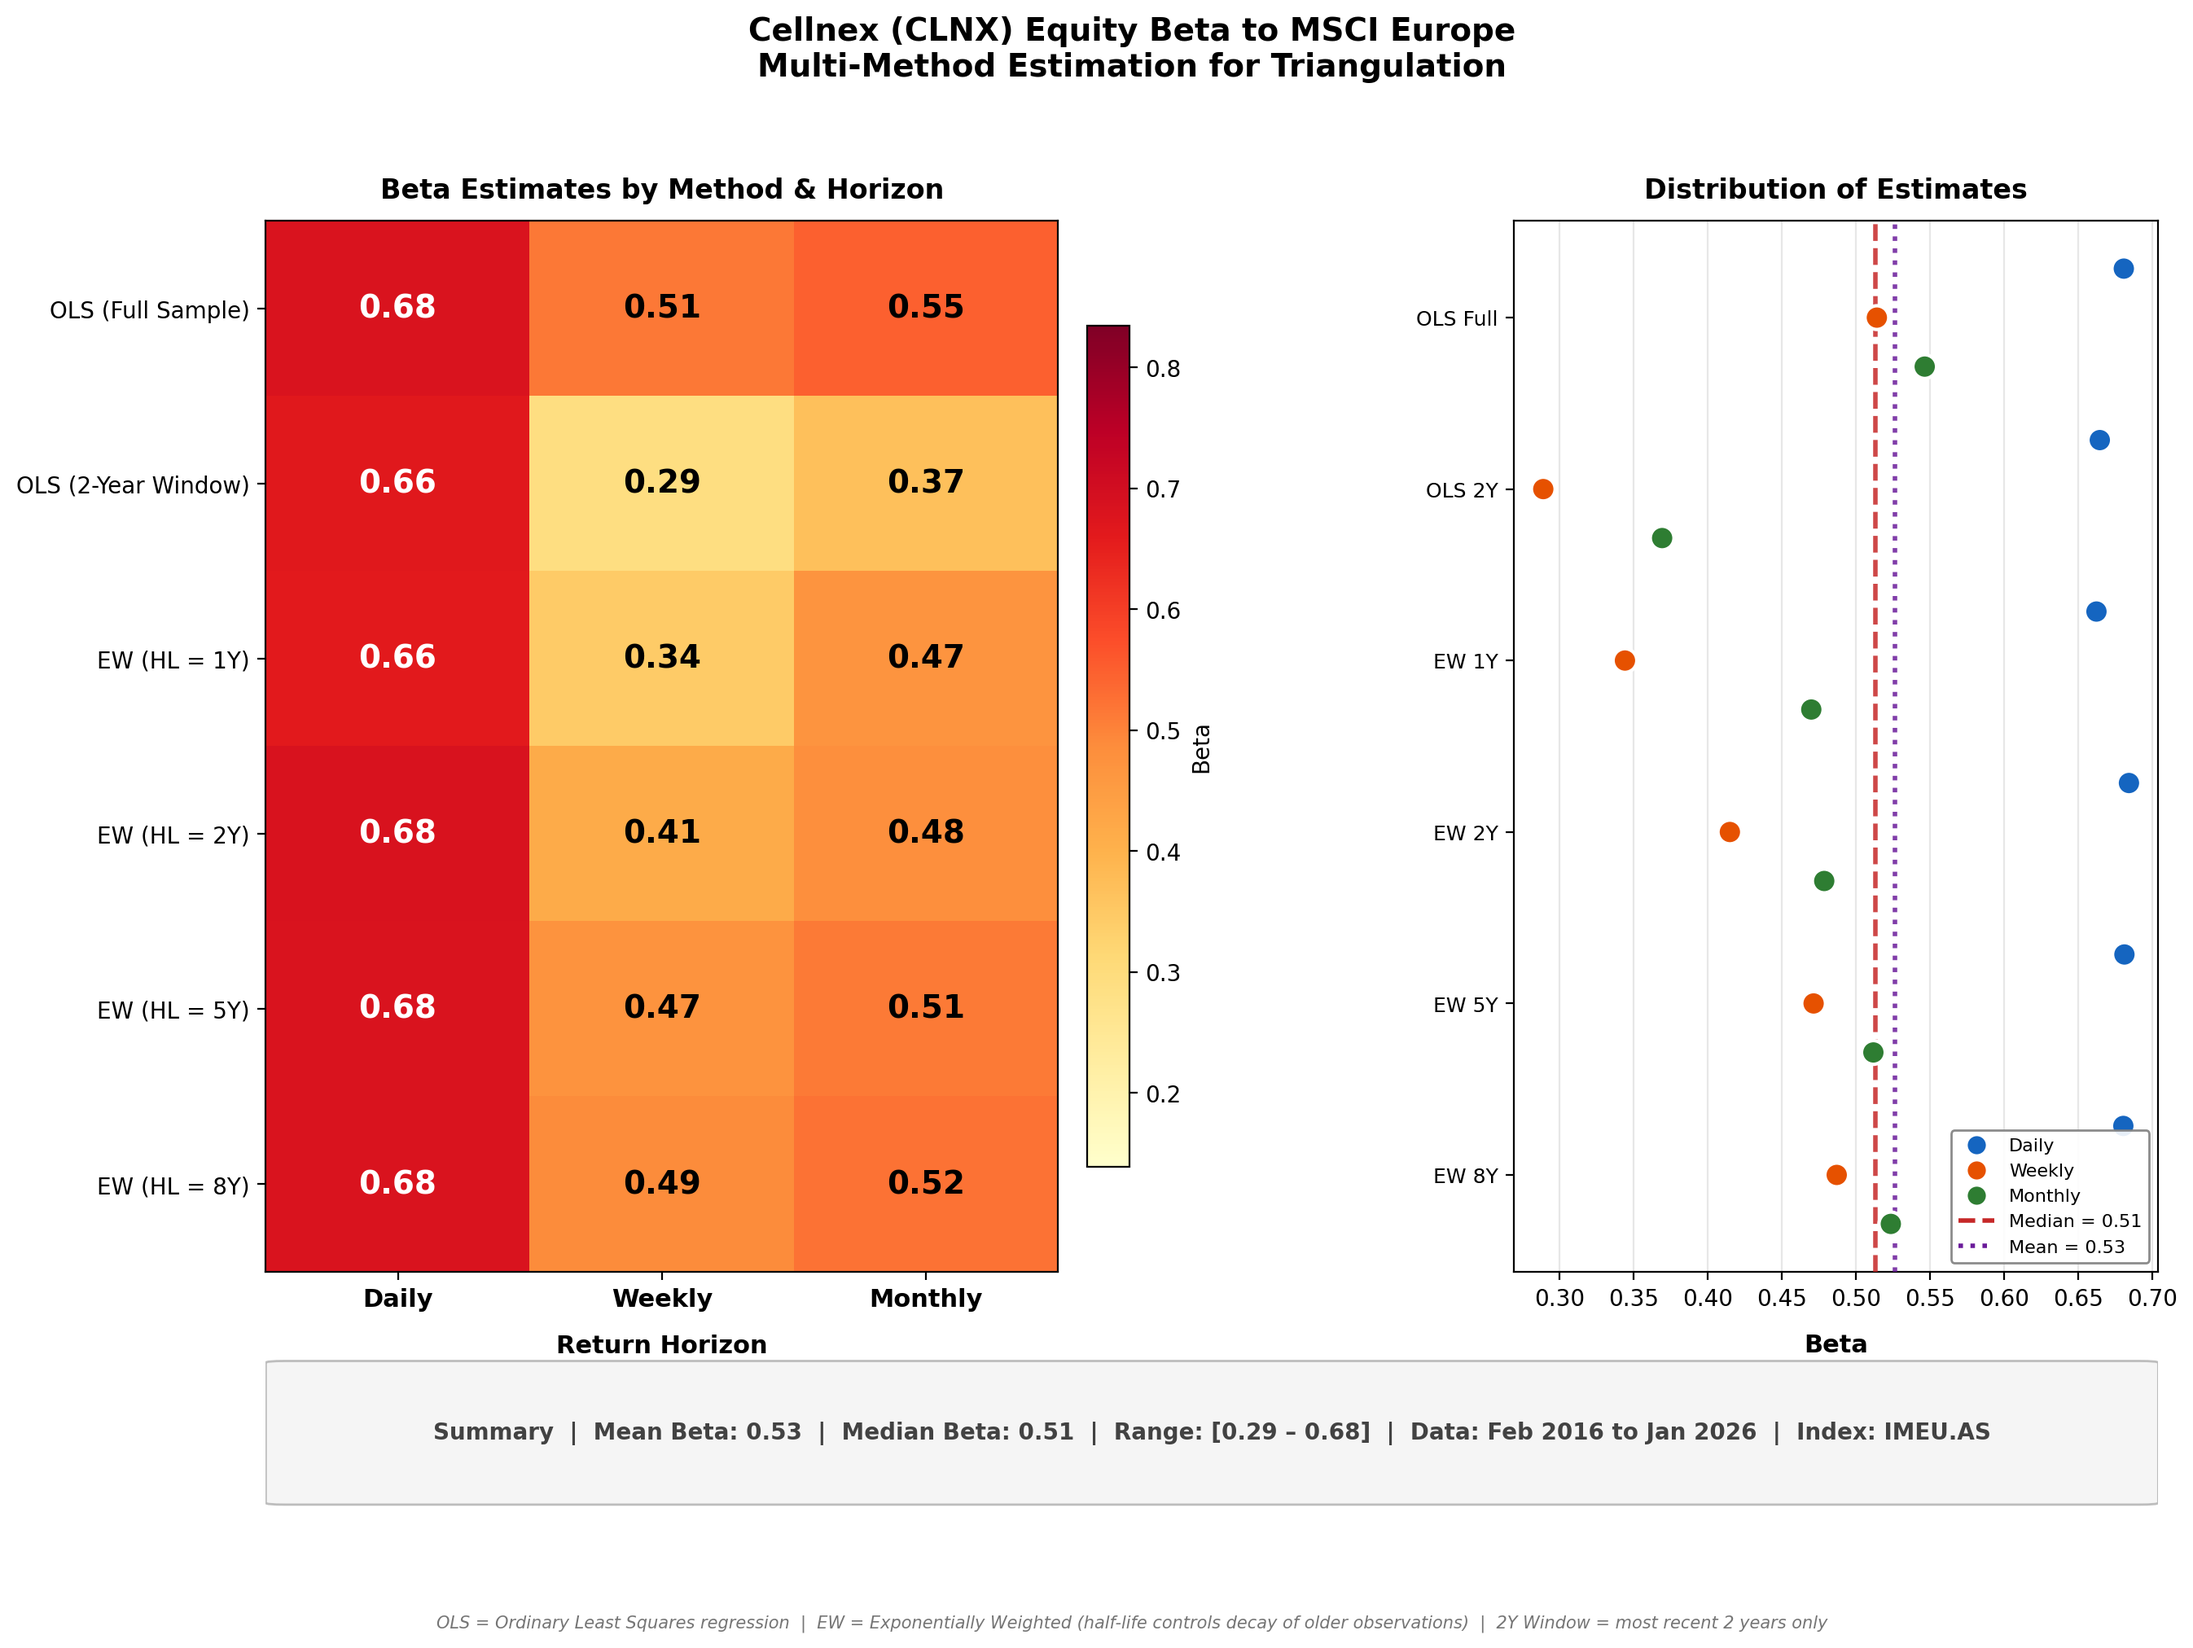
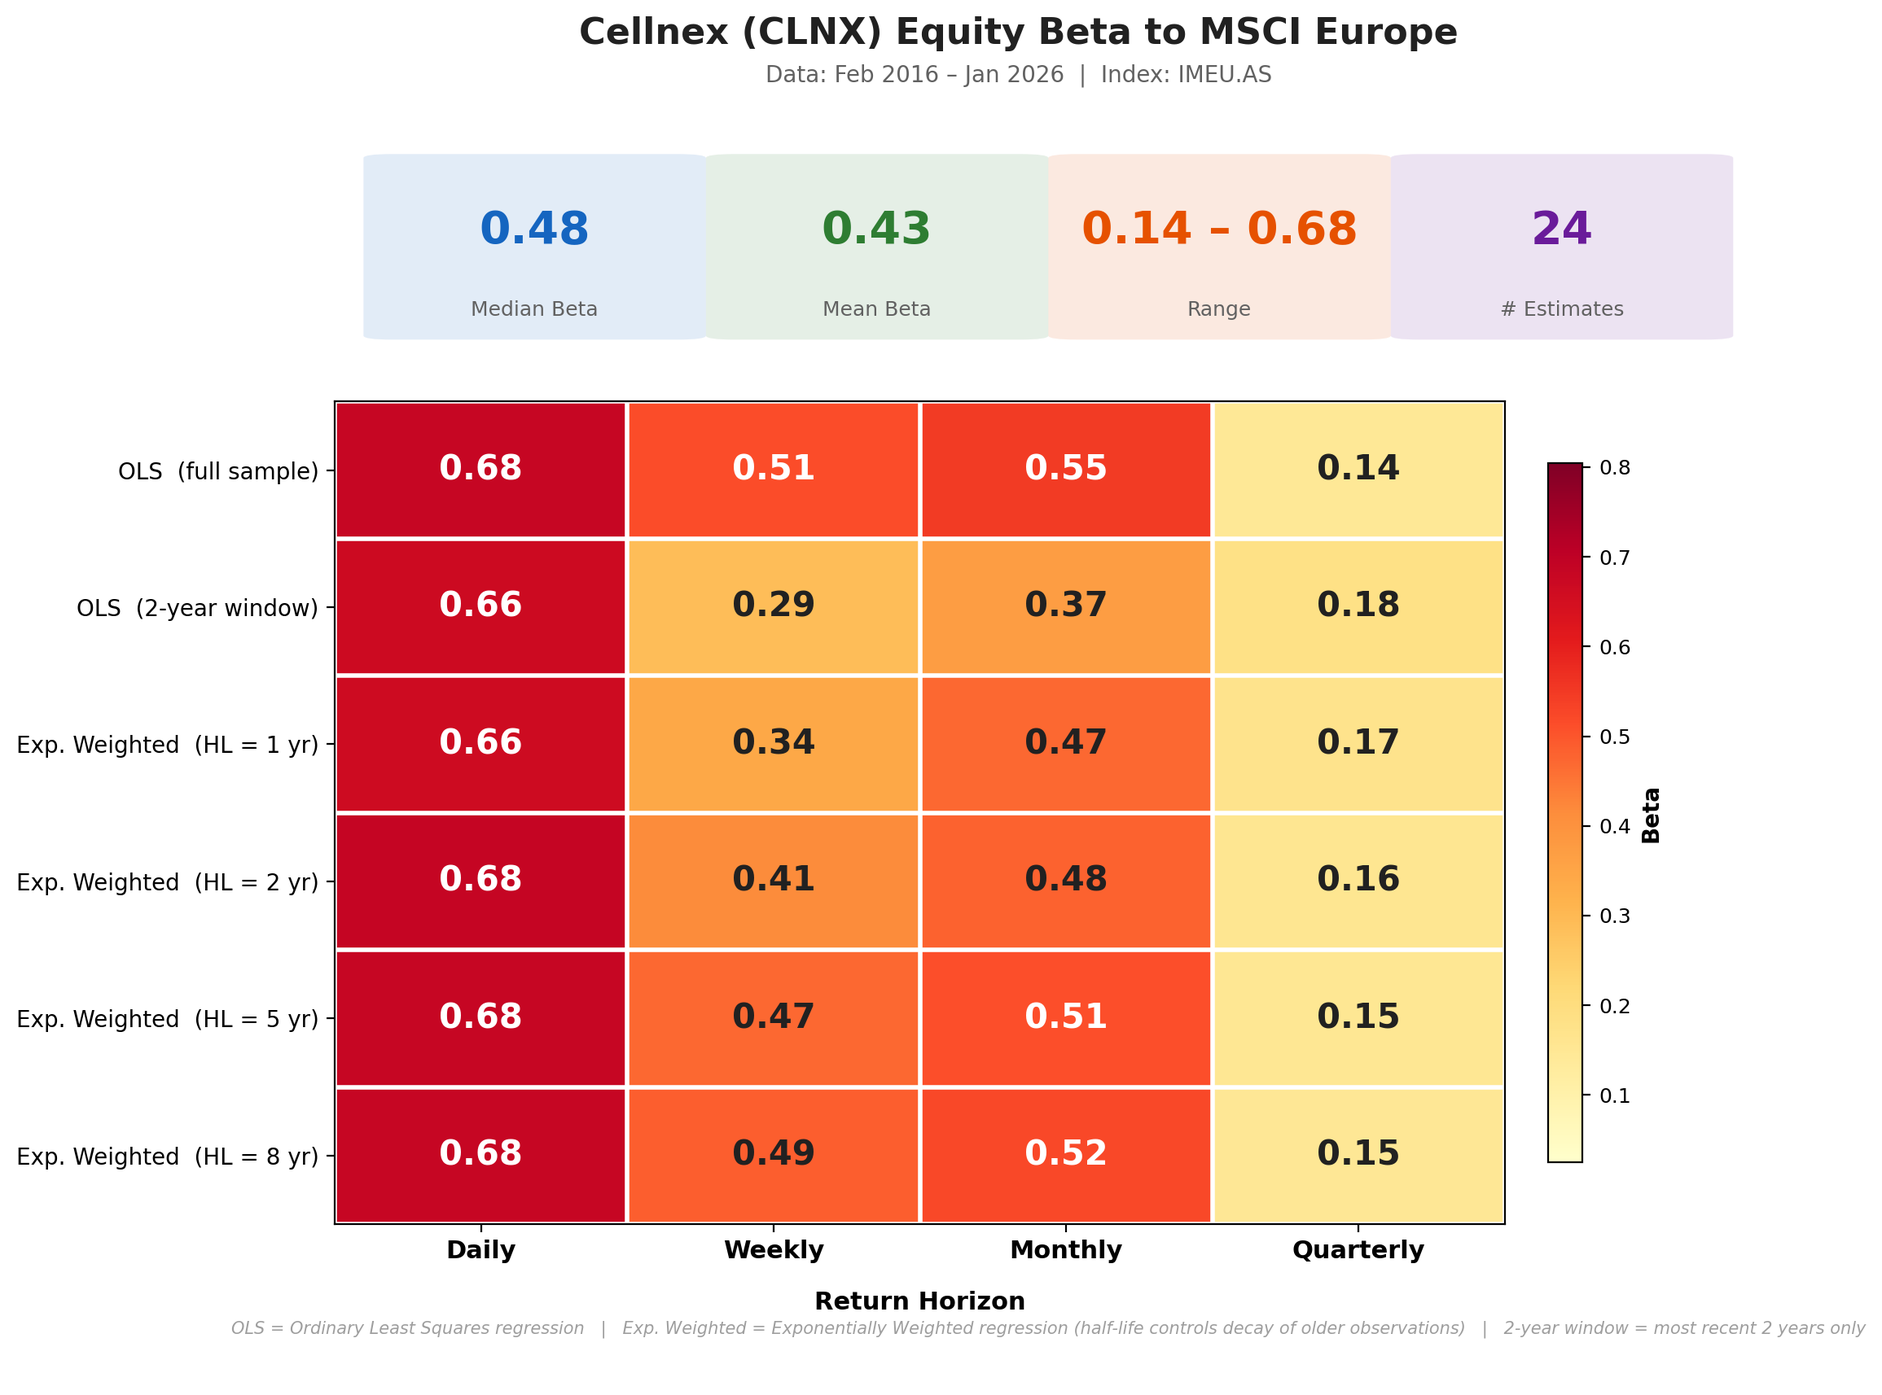
Add quarterly return horizon and redesign chart for senior management
- Added quarterly (63 trading days) as a 4th return horizon
- Updated 2-year OLS window (8 quarters) and EW half-life conversions
- Redesigned chart: single clean layout with key-stat callout boxes
  at top (median, mean, range, # estimates), annotated heatmap below,
  and methodology footnote
- All data sourced live from Yahoo Finance (CLNX.MC, IMEU.AS)

https://claude.ai/code/session_01LGr1KkWTNytDRxPtfdhonU

diff --git a/cellnex_equity_beta/cellnex_beta.py b/cellnex_equity_beta/cellnex_beta.py
@@ -53,6 +53,7 @@ RETURN_HORIZONS = {
     "Daily": 1,
     "Weekly": 5,
     "Monthly": 21,
+    "Quarterly": 63,
 }
 
 # Half-lives for exponential weighting (in years)
@@ -304,8 +305,10 @@ def estimate_all_betas(cellnex_prices, msci_prices):
             window = 504   # ~2 years of trading days
         elif horizon_days == 5:
             window = 104   # ~2 years of weeks
-        else:
+        elif horizon_days == 21:
             window = 24    # ~2 years of months
+        else:
+            window = 8     # ~2 years of quarters
         beta = ols_beta_window(stock_ret, index_ret, window)
         results[("OLS (2-Year Window)", horizon_name)] = beta
 
@@ -315,8 +318,10 @@ def estimate_all_betas(cellnex_prices, msci_prices):
                 hl_periods = hl_years * 252
             elif horizon_days == 5:
                 hl_periods = hl_years * 52
-            else:
+            elif horizon_days == 21:
                 hl_periods = hl_years * 12
+            else:
+                hl_periods = hl_years * 4
 
             beta = ew_beta(stock_ret, index_ret, hl_periods)
             results[(f"EW (HL = {hl_years}Y)", horizon_name)] = beta
@@ -330,7 +335,7 @@ def estimate_all_betas(cellnex_prices, msci_prices):
 
 def create_chart(results, msci_proxy_label, cellnex_prices, msci_prices,
                  is_sample_data=False):
-    """Create a single professional chart for senior management."""
+    """Create a single clean chart designed for senior management."""
 
     methodologies = [
         "OLS (Full Sample)",
@@ -354,29 +359,80 @@ def create_chart(results, msci_proxy_label, cellnex_prices, msci_prices,
     min_beta = np.min(all_betas)
     max_beta = np.max(all_betas)
 
+    data_start = max(cellnex_prices.index[0], msci_prices.index[0]).strftime("%b %Y")
+    data_end = min(cellnex_prices.index[-1], msci_prices.index[-1]).strftime("%b %Y")
+
     # =========================================================================
-    # Figure setup
+    # Figure: single clean layout
+    #   Row 0: key stats callout boxes  (height_ratio 1.2)
+    #   Row 1: annotated heatmap        (height_ratio 5)
+    #   Row 2: footer / methodology note (height_ratio 0.6)
     # =========================================================================
-    fig = plt.figure(figsize=(14, 10.5), facecolor="white")
+    fig = plt.figure(figsize=(12, 9), facecolor="white")
 
     gs = fig.add_gridspec(
-        2, 2,
-        width_ratios=[3, 2],
-        height_ratios=[6, 1],
-        hspace=0.12,
-        wspace=0.35,
-        left=0.12, right=0.95,
-        top=0.84, bottom=0.08,
+        3, 1,
+        height_ratios=[1.2, 5, 0.6],
+        hspace=0.15,
+        left=0.15, right=0.88,
+        top=0.88, bottom=0.04,
     )
-    ax_heat = fig.add_subplot(gs[0, 0])
-    ax_dots = fig.add_subplot(gs[0, 1])
-    ax_summary = fig.add_subplot(gs[1, :])
+    ax_stats = fig.add_subplot(gs[0])
+    ax_heat = fig.add_subplot(gs[1])
+    ax_footer = fig.add_subplot(gs[2])
 
     # =========================================================================
-    # Panel 1: Annotated Heatmap
+    # Title
     # =========================================================================
-    vmin = max(0, min_beta - 0.15)
-    vmax = max_beta + 0.15
+    title = "Cellnex (CLNX) Equity Beta to MSCI Europe"
+    subtitle = f"Data: {data_start} \u2013 {data_end}  |  Index: {msci_proxy_label}"
+    if is_sample_data:
+        subtitle += "  [Sample Data]"
+    fig.suptitle(title, fontsize=16, fontweight="bold", y=0.97, color="#212121")
+    fig.text(0.5, 0.925, subtitle, ha="center", fontsize=10, color="#616161")
+
+    # =========================================================================
+    # Panel 1: Key Statistics (callout boxes)
+    # =========================================================================
+    ax_stats.axis("off")
+
+    stat_items = [
+        ("Median Beta", f"{median_beta:.2f}", "#1565C0"),
+        ("Mean Beta", f"{mean_beta:.2f}", "#2E7D32"),
+        ("Range", f"{min_beta:.2f} \u2013 {max_beta:.2f}", "#E65100"),
+        ("# Estimates", f"{len(all_betas)}", "#6A1B9A"),
+    ]
+    n_stats = len(stat_items)
+    box_width = 0.20
+    gap = (1.0 - n_stats * box_width) / (n_stats + 1)
+
+    for idx, (label, value, color) in enumerate(stat_items):
+        x_left = gap + idx * (box_width + gap)
+        box = FancyBboxPatch(
+            (x_left, 0.05), box_width, 0.90,
+            boxstyle="round,pad=0.02",
+            facecolor=color, edgecolor="none", alpha=0.12,
+            transform=ax_stats.transAxes,
+        )
+        ax_stats.add_patch(box)
+        # Value (large)
+        ax_stats.text(
+            x_left + box_width / 2, 0.58, value,
+            transform=ax_stats.transAxes, ha="center", va="center",
+            fontsize=20, fontweight="bold", color=color,
+        )
+        # Label (small, below)
+        ax_stats.text(
+            x_left + box_width / 2, 0.18, label,
+            transform=ax_stats.transAxes, ha="center", va="center",
+            fontsize=9, color="#616161",
+        )
+
+    # =========================================================================
+    # Panel 2: Annotated Heatmap (main content)
+    # =========================================================================
+    vmin = max(0, min_beta - 0.12)
+    vmax = max_beta + 0.12
     cmap = plt.cm.YlOrRd
 
     im = ax_heat.imshow(matrix, cmap=cmap, aspect="auto", vmin=vmin, vmax=vmax)
@@ -389,141 +445,51 @@ def create_chart(results, msci_proxy_label, cellnex_prices, msci_prices,
             else:
                 text = f"{val:.2f}"
             norm_val = (val - vmin) / (vmax - vmin) if not np.isnan(val) else 0.5
-            text_color = "white" if norm_val > 0.65 else "black"
+            text_color = "white" if norm_val > 0.6 else "#212121"
             ax_heat.text(j, i, text, ha="center", va="center",
-                         fontsize=14, fontweight="bold", color=text_color)
+                         fontsize=15, fontweight="bold", color=text_color)
 
     ax_heat.set_xticks(range(len(horizons)))
     ax_heat.set_xticklabels(horizons, fontsize=11, fontweight="bold")
     ax_heat.set_yticks(range(len(methodologies)))
-    ax_heat.set_yticklabels(methodologies, fontsize=10)
-    ax_heat.set_xlabel("Return Horizon", fontsize=11, fontweight="bold", labelpad=10)
-    ax_heat.set_title("Beta Estimates by Method & Horizon", fontsize=12,
-                       fontweight="bold", pad=10)
-
-    cbar = fig.colorbar(im, ax=ax_heat, shrink=0.8, pad=0.03)
-    cbar.set_label("Beta", fontsize=10)
-
-    # =========================================================================
-    # Panel 2: Dot Plot (distribution of all estimates)
-    # =========================================================================
-    horizon_colors = {"Daily": "#1565C0", "Weekly": "#E65100", "Monthly": "#2E7D32"}
-    method_short = {
-        "OLS (Full Sample)": "OLS Full",
-        "OLS (2-Year Window)": "OLS 2Y",
-        "EW (HL = 1Y)": "EW 1Y",
-        "EW (HL = 2Y)": "EW 2Y",
-        "EW (HL = 5Y)": "EW 5Y",
-        "EW (HL = 8Y)": "EW 8Y",
-    }
-
-    y_positions = []
-    x_values = []
-    colors = []
-    y_counter = 0
-
-    for method in methodologies:
-        for horizon in horizons:
-            val = results.get((method, horizon), np.nan)
-            if not np.isnan(val):
-                y_positions.append(y_counter)
-                x_values.append(val)
-                colors.append(horizon_colors[horizon])
-            y_counter += 1
-        y_counter += 0.5
-
-    ax_dots.scatter(x_values, y_positions, c=colors, s=110, zorder=5,
-                    edgecolors="white", linewidths=1.5)
-
-    # Median & mean lines
-    ax_dots.axvline(median_beta, color="#C62828", linestyle="--", linewidth=2.0,
-                    alpha=0.85, zorder=3)
-    ax_dots.axvline(mean_beta, color="#6A1B9A", linestyle=":", linewidth=2.0,
-                    alpha=0.85, zorder=3)
-
-    # Y-axis labels
-    y_counter = 0
-    ytick_positions = []
-    ytick_labels = []
-    for method in methodologies:
-        mid = y_counter + 1
-        ytick_positions.append(mid)
-        ytick_labels.append(method_short[method])
-        y_counter += len(horizons) + 0.5
-
-    ax_dots.set_yticks(ytick_positions)
-    ax_dots.set_yticklabels(ytick_labels, fontsize=9)
-    ax_dots.invert_yaxis()
-    ax_dots.set_xlabel("Beta", fontsize=11, fontweight="bold", labelpad=10)
-    ax_dots.set_title("Distribution of Estimates", fontsize=12,
-                       fontweight="bold", pad=10)
-    ax_dots.grid(axis="x", alpha=0.3, linestyle="-")
-
-    # Legend
-    legend_elements = [
-        Line2D([0], [0], marker="o", color="w", markerfacecolor=horizon_colors[h],
-               markersize=9, label=h) for h in horizons
+    method_labels = [
+        "OLS  (full sample)",
+        "OLS  (2-year window)",
+        "Exp. Weighted  (HL = 1 yr)",
+        "Exp. Weighted  (HL = 2 yr)",
+        "Exp. Weighted  (HL = 5 yr)",
+        "Exp. Weighted  (HL = 8 yr)",
     ]
-    legend_elements.append(
-        Line2D([0], [0], color="#C62828", linestyle="--", linewidth=2,
-               label=f"Median = {median_beta:.2f}")
-    )
-    legend_elements.append(
-        Line2D([0], [0], color="#6A1B9A", linestyle=":", linewidth=2,
-               label=f"Mean = {mean_beta:.2f}")
-    )
-    ax_dots.legend(handles=legend_elements, loc="lower right", fontsize=8,
-                   framealpha=0.9, edgecolor="gray")
+    ax_heat.set_yticklabels(method_labels, fontsize=10)
+    ax_heat.set_xlabel("Return Horizon", fontsize=11, fontweight="bold", labelpad=12)
+
+    # Light grid between cells
+    for i in range(len(methodologies) + 1):
+        ax_heat.axhline(i - 0.5, color="white", linewidth=2)
+    for j in range(len(horizons) + 1):
+        ax_heat.axvline(j - 0.5, color="white", linewidth=2)
+
+    cbar = fig.colorbar(im, ax=ax_heat, shrink=0.85, pad=0.03)
+    cbar.set_label("Beta", fontsize=10, fontweight="bold")
+    cbar.ax.tick_params(labelsize=9)
 
     # =========================================================================
-    # Panel 3: Summary bar
+    # Panel 3: Methodology footer
     # =========================================================================
-    ax_summary.axis("off")
-    data_start = max(cellnex_prices.index[0], msci_prices.index[0]).strftime("%b %Y")
-    data_end = min(cellnex_prices.index[-1], msci_prices.index[-1]).strftime("%b %Y")
-
-    summary_text = (
-        f"Summary  |  "
-        f"Mean Beta: {mean_beta:.2f}  |  "
-        f"Median Beta: {median_beta:.2f}  |  "
-        f"Range: [{min_beta:.2f} \u2013 {max_beta:.2f}]  |  "
-        f"Data: {data_start} to {data_end}  |  "
-        f"Index: {msci_proxy_label}"
-    )
-
-    bbox = FancyBboxPatch(
-        (0.01, 0.1), 0.98, 0.8,
-        boxstyle="round,pad=0.01",
-        facecolor="#F5F5F5", edgecolor="#BDBDBD", linewidth=1,
-        transform=ax_summary.transAxes,
-    )
-    ax_summary.add_patch(bbox)
-    ax_summary.text(0.5, 0.5, summary_text, transform=ax_summary.transAxes,
-                    ha="center", va="center", fontsize=10, fontweight="bold",
-                    color="#424242")
-
-    # =========================================================================
-    # Title
-    # =========================================================================
-    title = "Cellnex (CLNX) Equity Beta to MSCI Europe"
-    subtitle = "Multi-Method Estimation for Triangulation"
-    if is_sample_data:
-        subtitle += "  [Sample Data -- replace with live data for production]"
-
-    fig.suptitle(f"{title}\n{subtitle}", fontsize=14, fontweight="bold", y=0.96)
-
-    # =========================================================================
-    # Methodology note
-    # =========================================================================
+    ax_footer.axis("off")
     note = (
-        "OLS = Ordinary Least Squares regression  |  "
-        "EW = Exponentially Weighted (half-life controls decay of older observations)  |  "
-        "2Y Window = most recent 2 years only"
+        "OLS = Ordinary Least Squares regression   |   "
+        "Exp. Weighted = Exponentially Weighted regression "
+        "(half-life controls decay of older observations)   |   "
+        "2-year window = most recent 2 years only"
     )
-    fig.text(0.5, 0.02, note, ha="center", va="center", fontsize=7.5,
-             color="#757575", style="italic")
+    ax_footer.text(0.5, 0.5, note, transform=ax_footer.transAxes,
+                   ha="center", va="center", fontsize=7.5,
+                   color="#9E9E9E", style="italic")
 
+    # =========================================================================
     # Save
+    # =========================================================================
     OUTPUT_DIR.mkdir(parents=True, exist_ok=True)
     output_path = OUTPUT_DIR / "cellnex_equity_beta.png"
     fig.savefig(output_path, dpi=200, bbox_inches="tight", facecolor="white")
@@ -549,11 +515,11 @@ def print_results_table(results):
     ]
     horizons = list(RETURN_HORIZONS.keys())
 
-    print("\n" + "=" * 65)
+    print("\n" + "=" * 77)
     print("  Cellnex Equity Beta Estimates vs MSCI Europe")
-    print("=" * 65)
-    print(f"  {'Methodology':<22} {'Daily':>10} {'Weekly':>10} {'Monthly':>10}")
-    print("  " + "-" * 61)
+    print("=" * 77)
+    print(f"  {'Methodology':<22} {'Daily':>10} {'Weekly':>10} {'Monthly':>10} {'Quarterly':>10}")
+    print("  " + "-" * 73)
 
     for method in methodologies:
         row = f"  {method:<22}"
@@ -565,12 +531,12 @@ def print_results_table(results):
                 row += f"{val:>10.3f}"
         print(row)
 
-    print("  " + "-" * 61)
+    print("  " + "-" * 73)
     all_betas = [v for v in results.values() if not np.isnan(v)]
-    print(f"  {'Mean':>22} {np.mean(all_betas):>30.3f}")
-    print(f"  {'Median':>22} {np.median(all_betas):>30.3f}")
-    print(f"  {'Range':>22} {f'[{np.min(all_betas):.3f} - {np.max(all_betas):.3f}]':>30}")
-    print("=" * 65)
+    print(f"  {'Mean':>22} {np.mean(all_betas):>40.3f}")
+    print(f"  {'Median':>22} {np.median(all_betas):>40.3f}")
+    print(f"  {'Range':>22} {f'[{np.min(all_betas):.3f} - {np.max(all_betas):.3f}]':>40}")
+    print("=" * 77)
 
 
 # =============================================================================
